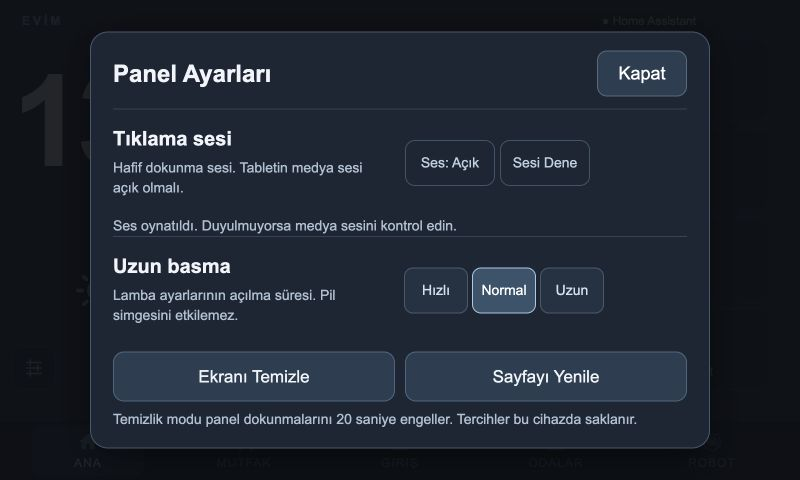
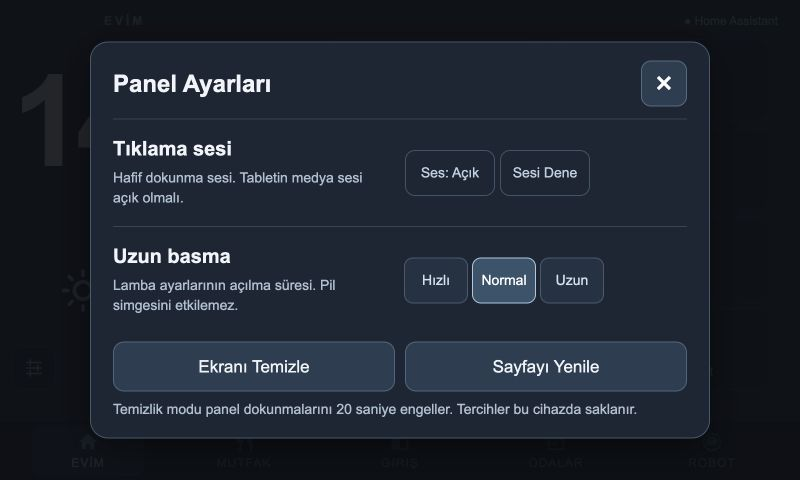
Finish live lamp controls, shared instant feedback, cached menus, and default color profiles

diff --git a/examples/panel-v2/panel.js b/examples/panel-v2/panel.js
@@ -8,20 +8,38 @@
     var snapshotNeeded = false, connectionGeneration = 0, renderQueued=false,lastConnection=null;
     function activeView(){try{return decodeURIComponent(window.location.hash.replace(/^#screen-/,''))||'Ana';}catch(ignore){return 'Ana';}}
     function scheduleRender(){if(renderQueued){return;}renderQueued=true;setTimeout(function(){renderQueued=false;render();},16);}
-    var modalIds = [], focusBeforeDialog = null, noticeTimer, modal, keyboardInput = false;
+    var modalIds = [], modalControls=[],dialogCache={},modalRevision=0,focusBeforeDialog = null, noticeTimer, modal, keyboardInput = false;
     document.addEventListener('keydown',function(ev){if(ev.keyCode===9){keyboardInput=true;document.body.classList.add('pv2-keyboard');}},true);
     function pointerInput(){keyboardInput=false;document.body.classList.remove('pv2-keyboard');}
     document.addEventListener('touchstart',pointerInput,true);
     document.addEventListener('mousedown',pointerInput,true);
-    var soundEnabled=true,holdDelay=650,audio=document.createElement('audio'),audioStatus=null;
+    var soundEnabled=true,holdDelay=500,audio=document.createElement('audio'),audioStatus=null;
     audio.preload='auto';audio.volume=1;audio.setAttribute('aria-hidden','true');audio.style.cssText='position:fixed;width:1px;height:1px;opacity:0;pointer-events:none';
     var soundBase=window.location.protocol+'//'+window.location.hostname+':8123/local/';
     [{src:cfg.clickSoundUrl||soundBase+'panel-click.mp3',type:'audio/mpeg'},{src:cfg.clickSoundWavUrl||soundBase+'panel-click.wav',type:'audio/wav'}].forEach(function(source){var n=document.createElement('source');n.src=source.src;n.type=source.type;audio.appendChild(n);});document.body.appendChild(audio);
     function soundStatus(text){if(audioStatus){setText(audioStatus,text);}}
     audio.addEventListener('playing',function(){soundStatus('Ses oynatıldı. Duyulmuyorsa medya sesini kontrol edin.');},false);
     audio.addEventListener('error',function(){soundStatus('Ses dosyası oynatılamadı. Hata: '+(audio.error?audio.error.code:'bilinmiyor'));},false);
-    try{var savedSound=localStorage.getItem('panel-v2-click-sound');if(savedSound==='on'||savedSound==='off'){soundEnabled=savedSound==='on';}var savedDelay=Number(localStorage.getItem('panel-v2-hold-ms'));if([450,650,900].indexOf(savedDelay)!==-1){holdDelay=savedDelay;}}catch(ignore){}
-    function clickSound(force){if(!soundEnabled&&!force){return;}try{try{audio.currentTime=0;}catch(ignore){}var playing=audio.play();if(playing&&playing.catch){playing.catch(function(error){soundStatus(error.name==='NotAllowedError'?'Tarayıcı ses oynatmayı engelledi. Sesi Dene düğmesine dokunun.':'Ses oynatılamadı: '+error.name);});}}catch(ignore){soundStatus('Bu tarayıcı sesi başlatamadı.');}}
+    try{var savedSound=localStorage.getItem('panel-v2-click-sound');if(savedSound==='on'||savedSound==='off'){soundEnabled=savedSound==='on';}var savedDelay=Number(localStorage.getItem('panel-v2-hold-ms'));if(savedDelay===450){savedDelay=250;}else if(savedDelay===650){savedDelay=500;}else if(savedDelay===900){savedDelay=800;}if([250,500,800].indexOf(savedDelay)!==-1){holdDelay=savedDelay;}}catch(ignore){}
+    // Decode once; a new lightweight buffer source starts directly on touch-down.
+    // The proven HTML media path remains a fallback for older/unsupported engines.
+    var fastContext=null,fastBuffer=null,fastFailed=false;
[1 lines of base64/hex data omitted]
+    function fastSound(){
+      if(!fastContext||!fastBuffer||fastFailed){return false;}
+      try{if(fastContext.state==='suspended'&&fastContext.resume){var resuming=fastContext.resume();if(resuming&&resuming.catch){resuming.catch(function(){fastFailed=true;});}}
+        var source=fastContext.createBufferSource();source.buffer=fastBuffer;source.connect(fastContext.destination);source.onended=function(){source.disconnect();};if(source.start){source.start(0);}else{source.noteOn(0);}soundStatus('Ses oynatıldı · Hızlı ses');return true;
+      }catch(ignore){fastFailed=true;return false;}
+    }
+    function clickSound(force){if(!soundEnabled&&!force){return;}if(fastSound()){return;}try{try{audio.currentTime=0;}catch(ignore){}var playing=audio.play();if(playing&&playing.catch){playing.catch(function(error){soundStatus(error.name==='NotAllowedError'?'Tarayıcı ses oynatmayı engelledi. Sesi Dene düğmesine dokunun.':'Ses oynatılamadı: '+error.name);});}}catch(ignore){soundStatus('Bu tarayıcı sesi başlatamadı.');}}
+    var lastTouchSoundAt=0,lastPointerSoundAt=0,lastPointerControl=null,touchFeedbackActive=false;
+    function feedbackControl(target){for(var el=target;el&&el!==document.body;el=el.parentNode){if(el.nodeType!==1){continue;}var tag=el.tagName;if(tag==='BUTTON'||tag==='SELECT'||tag==='INPUT'||tag==='A'||el.classList.contains('navbar-item')){return el.disabled||el.getAttribute('aria-disabled')==='true'?null:el;}}return null;}
+    function pressFeedback(ev){var now=new Date().getTime();if(ev.type==='mousedown'&&(ev.button!==0||now-lastTouchSoundAt<800)){return;}if(ev.touches&&ev.touches.length!==1){return;}var el=feedbackControl(ev.target);if(!el){return;}if(ev.touches){lastTouchSoundAt=now;touchFeedbackActive=true;}lastPointerSoundAt=now;lastPointerControl=el;clickSound(el.classList.contains('pv2-sound-test'));}
+    document.addEventListener('touchstart',pressFeedback,true);
+    document.addEventListener('mousedown',pressFeedback,true);
+    document.addEventListener('touchend',function(){if(touchFeedbackActive){lastTouchSoundAt=new Date().getTime();lastPointerSoundAt=lastTouchSoundAt;touchFeedbackActive=false;}},true);
+    document.addEventListener('mouseup',function(){lastPointerSoundAt=new Date().getTime();},true);
+    document.addEventListener('click',function(ev){if(ev.isTrusted===false){return;}var el=feedbackControl(ev.target);if(!el){return;}if(el===lastPointerControl&&new Date().getTime()-lastPointerSoundAt<1000){return;}clickSound(el.classList.contains('pv2-sound-test'));},true);
     var paths = {
       settings:'M4 6h16M4 12h16M4 18h16M8 3v6m8 0v6M8 15v6',
       bulb:'M9 18h6m-5 3h4M8 13a6 6 0 1 1 8 0c-1 1-1 2-1 3H9c0-1 0-2-1-3Z',
@@ -51,32 +69,39 @@
         request.then(function(result){clearTimeout(timeout);resolve(result);},function(error){clearTimeout(timeout);reject(error);});
       });
     }
-    function perform(key, domain, service, ids, data) {
+    function perform(key, domain, service, ids, data, onSuccess) {
       if (busy[key]) { return; }
       busy[key]=true; scheduleRender();
-      call(domain,service,ids,data).then(function(){busy[key]=false;scheduleRender();},function(){busy[key]=false;scheduleRender();notice('İşlem gerçekleştirilemedi. Bağlantıyı kontrol edin.');});
+      call(domain,service,ids,data).then(function(){busy[key]=false;scheduleRender();if(onSuccess){onSuccess();}},function(){busy[key]=false;scheduleRender();notice('İşlem gerçekleştirilemedi. Bağlantıyı kontrol edin.');});
     }
     function supported(ids) { return ids.filter(function(id){return C.available(get(id));}); }
     function toggle(ids) {
       var g=C.group(ids,cache), active=supported(ids);
       if (!active.length) { notice('Lambaya ulaşılamıyor.'); return; }
-      perform(ids.join(','),'light',g.service,active);
+      if(g.service==='turn_on'){turnOn(active,ids.join(','));}else{perform(ids.join(','),'light','turn_off',active);}
+    }
+    function turnOn(ids,key){
+      var targets=ids.map(function(id){return {id:id,data:C.defaultLightData(get(id),cfg.defaultLightStates&&cfg.defaultLightStates[id])};});
+      if(!targets.some(function(t){return !!t.data;})){perform(key,'light','turn_on',ids);return;}
+      if(busy[key]){return;}busy[key]=true;scheduleRender();
+      Promise.all(targets.map(function(t){return call('light','turn_on',t.id,t.data).then(function(){return true;},function(){return false;});})).then(function(results){busy[key]=false;scheduleRender();if(results.some(function(ok){return !ok;})){notice('Bazı lambalar açılamadı. Bağlantıyı kontrol edin.');}});
     }
     function addCard(parent, options, legacy) {
       var b=node('button','pv2-card'+(options.action?' pv2-action':'')+(legacy?' pv2-legacy-light':'')); b.type='button';
       b.innerHTML=icon(options.icon);
       var text=node('span','pv2-card-text'), label=node('span','pv2-card-label',options.label), state=node('span','pv2-card-state','Yükleniyor…');
       text.appendChild(label);text.appendChild(state);b.appendChild(text);parent.appendChild(b);
-      var item={button:b,label:label,status:state,options:options,view:parent.getAttribute('data-pv2-screen')};cards.push(item);
+      var item={button:b,label:label,status:state,options:options,icon:b.querySelector('svg'),view:parent.getAttribute('data-pv2-screen')};cards.push(item);
       C.bindPress(b,function(){
         if (b.disabled) { return; }
         if (options.kind==='robot') { var robot=C.robot(get(cfg.vacuum)); if(robot.service){perform('robot','vacuum',robot.service,cfg.vacuum);} }
         else if(options.kind==='alloff'){toggleCountdown();}
         else if(options.kind&&options.kind.indexOf('vacuum-')===0){var action=C.robotControl(get(cfg.vacuum),options.kind.slice(7));if(action.service){perform('vacuum','vacuum',action.service,cfg.vacuum);}}
         else{toggle(options.ids);}
-      },options.ids?function(){openDialog(options.label,options.ids);}:null,null,function(){return holdDelay;},function(){if(!b.disabled){clickSound();}});
+      },options.ids?function(){openDialog(options.label,options.ids);}:null,null,function(){return holdDelay;});
       return item;
     }
+    var navLabels=document.querySelectorAll('.navbar-label');for(var ni=0;ni<navLabels.length;ni++){if(navLabels[ni].textContent.trim().toLowerCase()==='ana'){setText(navLabels[ni],'EVİM');}}
     document.body.classList.add('panel-v2');
     var views=[],robotStatus=null;
     function makeView(name,title){
@@ -88,7 +113,7 @@
       var clock=node('div','pv2-clock'),date=node('div','pv2-date'),weekday=node('div','pv2-date');overview.appendChild(clock);overview.appendChild(date);overview.appendChild(weekday);
       var weather=node('div','pv2-weather'),weatherMain=node('div','pv2-weather-main'),weatherIcon=node('span'),temperature=node('span','pv2-temperature','--°'),condition=node('div','pv2-condition','Yükleniyor…');weatherMain.appendChild(weatherIcon);weatherMain.appendChild(temperature);weather.appendChild(weatherMain);weather.appendChild(condition);overview.appendChild(weather);
       var meeting=node('div','pv2-meeting');meeting.innerHTML='<span class="pv2-meeting-dot"></span>Toplantı';overview.appendChild(meeting);
-      var trigger=node('button','pv2-settings-trigger');trigger.type='button';trigger.innerHTML=icon('settings');trigger.setAttribute('aria-label','Panel Ayarları');trigger.title='Panel Ayarları';trigger.addEventListener('click',function(){clickSound();openPanelSettings();},false);overview.appendChild(trigger);
+      var trigger=node('button','pv2-settings-trigger');trigger.type='button';trigger.innerHTML=icon('settings');trigger.setAttribute('aria-label','Panel Ayarları');trigger.title='Panel Ayarları';trigger.addEventListener('click',function(){openPanelSettings();},false);overview.appendChild(trigger);
       body.appendChild(overview);body.appendChild(controls);root.appendChild(body);screen.appendChild(root);
       views.push({name:name,status:status,clock:clock,date:date,weekday:weekday,temperature:temperature,condition:condition,weatherIcon:weatherIcon,previousWeatherIcon:'',meeting:meeting});return controls;
     }
@@ -114,10 +139,10 @@
     }
     modal=node('div','pv2-modal');modal.setAttribute('role','dialog');modal.setAttribute('aria-modal','true');modal.setAttribute('aria-labelledby','pv2-dialog-title');
     var dialog=node('div','pv2-dialog'), header=node('div','pv2-dialog-header'), dialogTitle=node('h2');dialogTitle.id='pv2-dialog-title';
-    var close=node('button','pv2-close','Kapat');close.type='button';
+    var close=node('button','pv2-close','×');close.type='button';close.setAttribute('aria-label','Pencereyi kapat');close.title='Pencereyi kapat';
     var sound=node('button','pv2-sound');sound.type='button';
     function soundLabel(){setText(sound,'Ses: '+(soundEnabled?'Açık':'Kapalı'));sound.setAttribute('aria-pressed',soundEnabled?'true':'false');sound.title='Düğme tıklama sesi';}
-    soundLabel();sound.addEventListener('click',function(){soundEnabled=!soundEnabled;try{localStorage.setItem('panel-v2-click-sound',soundEnabled?'on':'off');}catch(ignore){}soundLabel();clickSound();},false);
+    soundLabel();sound.addEventListener('click',function(){soundEnabled=!soundEnabled;try{localStorage.setItem('panel-v2-click-sound',soundEnabled?'on':'off');}catch(ignore){}soundLabel();if(soundEnabled){clickSound(true);}},false);
     header.appendChild(dialogTitle);header.appendChild(close);dialog.appendChild(header);
     var settings=node('div');dialog.appendChild(settings);modal.appendChild(dialog);document.body.appendChild(modal);
     close.addEventListener('click',closeDialog,false);
@@ -130,22 +155,23 @@
     modal.addEventListener('touchstart',function(ev){ev.stopPropagation();},false);
     modal.addEventListener('touchmove',function(ev){ev.stopPropagation();},false);
     modal.addEventListener('touchend',function(ev){ev.stopPropagation();},false);
-    function closeDialog(){var wasOpen=modal.classList.contains('pv2-open');modal.classList.remove('pv2-open');modalIds=[];if(wasOpen&&focusBeforeDialog&&document.body.contains(focusBeforeDialog)){if(keyboardInput){focusBeforeDialog.focus();}else if(document.activeElement&&document.activeElement.blur){document.activeElement.blur();}}}
+    function closeDialog(){modalRevision++;var wasOpen=modal.classList.contains('pv2-open');modal.classList.remove('pv2-open');modalIds=[];modalControls=[];if(wasOpen&&focusBeforeDialog&&document.body.contains(focusBeforeDialog)){if(keyboardInput){focusBeforeDialog.focus();}else if(document.activeElement&&document.activeElement.blur){document.activeElement.blur();}}}
     function openDialog(title, ids){
-      focusBeforeDialog=document.activeElement;modalIds=ids.slice(0);setText(dialogTitle,title);settings.innerHTML='';
-      for(var di=0;di<ids.length;di++){buildSettings(ids[di],ids.length>1);}
-      modal.classList.add('pv2-open');close.focus();
+      modalRevision++;focusBeforeDialog=document.activeElement;modalIds=ids.slice(0);setText(dialogTitle,title);settings.innerHTML='';
+      var key=ids.join('|'),signature='';for(var si=0;si<ids.length;si++){var state=get(ids[si]);signature+=String(C.available(state))+JSON.stringify(C.capabilities(state));}
+      var page=dialogCache[key];if(!page||page.signature!==signature){page={content:node('div'),controls:[],signature:signature};modalControls=[];for(var di=0;di<ids.length;di++){buildSettings(ids[di],ids.length>1,page.content);}page.controls=modalControls;dialogCache[key]=page;}else{modalControls=page.controls;}
+      for(var ci=0;ci<modalControls.length;ci++){modalControls[ci].editing=false;}settings.appendChild(page.content);syncDialog();modal.classList.add('pv2-open');close.focus();
     }
     function openPanelSettings(){
-      focusBeforeDialog=document.activeElement;modalIds=[];setText(dialogTitle,'Panel Ayarları');settings.innerHTML='';
+      modalRevision++;focusBeforeDialog=document.activeElement;modalIds=[];modalControls=[];setText(dialogTitle,'Panel Ayarları');settings.innerHTML='';
       function preference(title,hint,control){var row=node('div','pv2-preference'),description=node('div');description.appendChild(node('h3','',title));description.appendChild(node('p','pv2-dialog-hint',hint));row.appendChild(description);row.appendChild(control);settings.appendChild(row);}
-      var audioActions=node('div','pv2-audio-actions'),testAudio=node('button','pv2-sound','Sesi Dene');testAudio.type='button';testAudio.addEventListener('click',function(){soundStatus('Ses deneniyor…');clickSound(true);},false);audioActions.appendChild(sound);audioActions.appendChild(testAudio);preference('Tıklama sesi','Hafif dokunma sesi. Tabletin medya sesi açık olmalı.',audioActions);audioStatus=node('p','pv2-dialog-hint');audioStatus.setAttribute('role','status');settings.appendChild(audioStatus);
+      var audioActions=node('div','pv2-audio-actions'),testAudio=node('button','pv2-sound pv2-sound-test','Sesi Dene');testAudio.type='button';audioActions.appendChild(sound);audioActions.appendChild(testAudio);preference('Tıklama sesi','Hafif dokunma sesi. Tabletin medya sesi açık olmalı.',audioActions);audioStatus=node('p','pv2-dialog-hint');audioStatus.setAttribute('role','status');settings.appendChild(audioStatus);
       var delays=node('div','pv2-delay-options');
-      [{label:'Hızlı',ms:450},{label:'Normal',ms:650},{label:'Uzun',ms:900}].forEach(function(p){var b=node('button','pv2-delay',p.label);b.type='button';b.setAttribute('aria-pressed',holdDelay===p.ms?'true':'false');b.addEventListener('click',function(){holdDelay=p.ms;try{localStorage.setItem('panel-v2-hold-ms',String(holdDelay));}catch(ignore){}var all=delays.querySelectorAll('button');for(var i=0;i<all.length;i++){all[i].setAttribute('aria-pressed',all[i]===b?'true':'false');}clickSound();},false);delays.appendChild(b);});
+      [{label:'Hızlı',ms:250},{label:'Normal',ms:500},{label:'Uzun',ms:800}].forEach(function(p){var b=node('button','pv2-delay',p.label);b.type='button';b.setAttribute('aria-pressed',holdDelay===p.ms?'true':'false');b.addEventListener('click',function(){holdDelay=p.ms;try{localStorage.setItem('panel-v2-hold-ms',String(holdDelay));}catch(ignore){}var all=delays.querySelectorAll('button');for(var i=0;i<all.length;i++){all[i].setAttribute('aria-pressed',all[i]===b?'true':'false');}},false);delays.appendChild(b);});
       preference('Uzun basma','Lamba ayarlarının açılma süresi. Pil simgesini etkilemez.',delays);
       var actions=node('div','pv2-settings-actions'),clean=node('button','','Ekranı Temizle'),reload=node('button','','Sayfayı Yenile');clean.type=reload.type='button';
-      clean.addEventListener('click',function(){clickSound();closeDialog();cleanScreen();},false);
-      reload.addEventListener('click',function(){clickSound();window.location.reload();},false);
+      clean.addEventListener('click',function(){closeDialog();cleanScreen();},false);
+      reload.addEventListener('click',function(){window.location.reload();},false);
       actions.appendChild(clean);actions.appendChild(reload);settings.appendChild(actions);settings.appendChild(node('p','pv2-dialog-hint','Temizlik modu panel dokunmalarını 20 saniye engeller. Tercihler bu cihazda saklanır.'));
       modal.classList.add('pv2-open');close.focus();
     }
@@ -157,37 +183,49 @@
       function tick(){var left=Math.max(0,Math.ceil((deadline-new Date().getTime())/1000));setText(remaining,String(left));if(left===0){clearInterval(timer);if(cover.parentNode){cover.parentNode.removeChild(cover);}}}
       timer=setInterval(tick,250);tick();
     }
-    function buildSettings(id, showName){
+    function buildSettings(id, showName, container){
       var entry=get(id), a=entry.attributes, cap=C.capabilities(entry), section=node('section','pv2-light-settings');
       if(showName){section.appendChild(node('h3','',cfg.labels && cfg.labels[id] || a.friendly_name || 'Lamba'));}
-      if(!C.available(entry)){section.appendChild(node('p','pv2-dialog-hint','Bu lambaya şu anda ulaşılamıyor.'));settings.appendChild(section);return;}
+      if(!C.available(entry)){section.appendChild(node('p','pv2-dialog-hint','Bu lambaya şu anda ulaşılamıyor.'));container.appendChild(section);return;}
+      var control={id:id,input:null,output:null,presets:[],editing:false};modalControls.push(control);
       if(cap.dim){
         var row=node('div','pv2-setting-row'),label=node('label','','Parlaklık'),input=node('input'),output=node('output');
         var brightness=C.brightness(entry);input.type='range';input.min='0';input.max='100';input.step='1';input.value=String(brightness.value);input.setAttribute('aria-label',(cfg.labels&&cfg.labels[id]||'Lamba')+' parlaklık');
         input.id='pv2-dim-'+id.replace(/\./g,'-');label.htmlFor=input.id;output.textContent=brightness.label;
+        control.input=input;control.output=output;
+        input.addEventListener('mousedown',function(){control.editing=true;},false);input.addEventListener('touchstart',function(){control.editing=true;},false);
+        input.addEventListener('touchcancel',function(){control.editing=false;syncDialog();},false);
+        input.addEventListener('mouseup',function(){control.editing=false;},false);input.addEventListener('touchend',function(){control.editing=false;},false);
         input.addEventListener('input',function(){setText(output,input.value+'%');},false);
-        input.addEventListener('change',function(){clickSound();var value=Number(input.value);if(value===0){perform('dim:'+id,'light','turn_off',id);}else{perform('dim:'+id,'light','turn_on',id,{brightness_pct:value});}},false);
+        input.addEventListener('change',function(){control.editing=false;var value=Number(input.value);if(value===0){perform('dim:'+id,'light','turn_off',id);}else{perform('dim:'+id,'light','turn_on',id,{brightness_pct:value});}},false);
         row.appendChild(label);row.appendChild(input);row.appendChild(output);section.appendChild(row);
       }
       if(cap.temperature){
         var temps=node('div','pv2-presets');section.appendChild(node('h3','pv2-presets-title','Beyaz tonları'));
         [{label:'Sıcak',k:2700,color:'#ffd18b'},{label:'Doğal',k:4000,color:'#fff0d9'},{label:'Soğuk',k:6500,color:'#dcecff'}].forEach(function(p){
           var k=Math.max(cap.min,Math.min(cap.max,p.k));
-          var b=preset(p.label,p.color);b.setAttribute('aria-label',p.label+' beyaz');
-          b.addEventListener('click',function(){selectPreset(temps,b);perform('color:'+id,'light','turn_on',id,{color_temp_kelvin:k});},false);temps.appendChild(b);
+          var b=preset(p.label,p.color);b.setAttribute('aria-label',p.label+' beyaz');control.presets.push({button:b,kelvin:k});
+          b.addEventListener('click',function(){selectPreset(temps,b);applyPreset(id,{color_temp_kelvin:k});},false);temps.appendChild(b);
         });section.appendChild(temps);
       }
       if(cap.rgb){
         var colors=node('div','pv2-presets');section.appendChild(node('h3','pv2-presets-title','Renkler'));
         [{label:'Kırmızı',rgb:[255,55,55],color:'#ff5555'},{label:'Amber',rgb:[255,165,45],color:'#ffb64d'},{label:'Yeşil',rgb:[65,220,110],color:'#51d984'},{label:'Mavi',rgb:[65,135,255],color:'#679dff'},{label:'Mor',rgb:[175,85,255],color:'#b278fa'},{label:'Pembe',rgb:[255,95,170],color:'#ff7db4'}].forEach(function(p){
-          var b=preset(p.label,p.color);b.addEventListener('click',function(){selectPreset(colors,b);perform('color:'+id,'light','turn_on',id,{rgb_color:p.rgb});},false);colors.appendChild(b);
+          var b=preset(p.label,p.color);control.presets.push({button:b,rgb:p.rgb});b.addEventListener('click',function(){selectPreset(colors,b);applyPreset(id,{rgb_color:p.rgb});},false);colors.appendChild(b);
         });section.appendChild(colors);
       }
       if(!cap.dim&&!cap.temperature&&!cap.rgb){section.appendChild(node('p','pv2-dialog-hint','Bu lamba yalnızca aç/kapat destekliyor.'));}
-      settings.appendChild(section);
+      container.appendChild(section);
+    }
+    function applyPreset(id,data){var revision=modalRevision;perform('color:'+id,'light','turn_on',id,data,function(){if(modalRevision===revision){closeDialog();}});}
+    function syncDialog(){
+      for(var mi=0;mi<modalControls.length;mi++){var control=modalControls[mi],entry=get(control.id),available=connection()&&C.available(entry);
+        if(control.input){control.input.disabled=!available;if(!control.editing&&!busy['dim:'+control.id]){var brightness=C.brightness(entry);control.input.value=String(brightness.value);setText(control.output,brightness.label);}}
+        for(var pi=0;pi<control.presets.length;pi++){var p=control.presets[pi],selected=C.presetSelected(entry,p);p.button.disabled=!available||!!busy['color:'+control.id];if(!busy['color:'+control.id]){p.button.classList.toggle('pv2-selected',selected);p.button.setAttribute('aria-pressed',selected?'true':'false');}}
+      }
     }
     function preset(label,color){var b=node('button','pv2-preset');b.type='button';b.setAttribute('aria-pressed','false');var dot=node('span','pv2-swatch');dot.style.backgroundColor=color;b.appendChild(dot);b.appendChild(document.createTextNode(label));return b;}
-    function selectPreset(parent,button){clickSound();var all=parent.parentNode.querySelectorAll('.pv2-preset');for(var i=0;i<all.length;i++){all[i].classList.remove('pv2-selected');all[i].setAttribute('aria-pressed','false');}button.classList.add('pv2-selected');button.setAttribute('aria-pressed','true');}
+    function selectPreset(parent,button){var all=parent.parentNode.querySelectorAll('.pv2-preset');for(var i=0;i<all.length;i++){all[i].classList.remove('pv2-selected');all[i].setAttribute('aria-pressed','false');}button.classList.add('pv2-selected');button.setAttribute('aria-pressed','true');}
     function drawCard(item){
       var o=item.options,b=item.button,label=o.label,detail='',on=false,unavailable=false,key=o.ids?o.ids.join(','):o.kind,disabled=!connection();
       if(o.kind&&o.kind.indexOf('vacuum-')===0){var action=C.robotControl(get(cfg.vacuum),o.kind.slice(7));label=action.label;detail=action.detail;disabled=disabled||!action.service||!!busy.robot;unavailable=!C.available(get(cfg.vacuum));key='vacuum';}
@@ -205,6 +243,8 @@
         else{detail=group.on?group.on+'/'+group.total+' açık':'Kapalı';if(group.ready<group.total){detail+=' · eksik bağlantı';}}
         disabled=disabled||unavailable;
       }
+      var tint=o.ids&&o.ids.length===1?C.lightTint(get(o.ids[0])):null;
+      b.style.backgroundColor=tint?tint.background:'';b.style.borderColor=tint?tint.border:'';if(item.icon){item.icon.style.color=tint?tint.foreground:'';}item.status.style.color=tint?tint.foreground:'';
       b.disabled=disabled||!!busy[key];b.classList.toggle('pv2-on',on);b.classList.toggle('pv2-unavailable',unavailable);
       b.classList.toggle('pv2-pending',!!busy[key]);b.setAttribute('aria-busy',busy[key]?'true':'false');
       setText(item.label,label);setText(item.status,!connection()?'Bağlantı yok':detail);
@@ -213,7 +253,7 @@
     var conditions={'clear-night':'Açık gece','cloudy':'Bulutlu','exceptional':'Olağan dışı','fog':'Sisli','hail':'Dolu','lightning':'Şimşekli','lightning-rainy':'Gök gürültülü','partlycloudy':'Parçalı bulutlu','pouring':'Sağanak','rainy':'Yağmurlu','snowy':'Karlı','snowy-rainy':'Karla karışık','sunny':'Güneşli','windy':'Rüzgârlı','windy-variant':'Rüzgârlı'};
     function updateMeeting(v){var entry=get(cfg.meeting),age=new Date().getTime()/1000-Number(entry.attributes.last_report_epoch||0);v.meeting.classList.toggle('pv2-active',v.name==='Ana'&&connection()&&entry.state==='on'&&age>=-5&&age<40);}
     function render(){
-      var active=activeView();
+      syncDialog();var active=activeView();
       for(var i=0;i<cards.length;i++){if(cards[i].view===active){drawCard(cards[i]);}}
       var entry=get(cfg.weather),t=entry.attributes.temperature,valid=C.available(entry)&&t!==null&&t!==undefined&&t!==''&&isFinite(Number(t));
       var weatherName=entry.state==='sunny'?'sun':entry.state==='clear-night'?'moon':(/rain|pouring|hail|snow/.test(entry.state)?'rain':'cloud');

diff --git a/examples/panel-v2/core.js b/examples/panel-v2/core.js
@@ -30,6 +30,24 @@
     var value=Math.max(0,Math.min(100,Math.round(Number(b)/255*100)));
     return {value:value,label:value+'%'};
   };
+  api.lightTint = function(e){
+    var a=e.attributes||{},rgb=a.rgb_color;
+    if(e.state!=='on'||a.color_mode==='color_temp'||!rgb||rgb.length!==3){return null;}
+    for(var i=0;i<3;i++){if(rgb[i]===null||!isFinite(Number(rgb[i]))||Number(rgb[i])<0||Number(rgb[i])>255){return null;}}
+    function mix(base,ratio){var v=[];for(var j=0;j<3;j++){v.push(Math.round(base[j]*(1-ratio)+Number(rgb[j])*ratio));}return 'rgb('+v.join(',')+')';}
+    return {background:mix([37,47,62],0.22),border:mix([60,72,90],0.55),foreground:mix([255,255,255],0.7)};
+  };
+  api.presetSelected = function(e,p){
+    if(e.state!=='on'){return false;}var a=e.attributes||{};
+    if(p.kelvin){if(a.color_mode&&a.color_mode!=='color_temp'){return false;}var k=a.color_temp_kelvin||(a.color_temp?1000000/a.color_temp:null);return k!==null&&Math.abs(k-p.kelvin)<=150;}
+    if(a.color_mode==='color_temp'||!a.rgb_color){return false;}var distance=0;for(var i=0;i<3;i++){if(!isFinite(a.rgb_color[i])){return false;}distance+=Math.pow(a.rgb_color[i]-p.rgb[i],2);}return distance<=3600;
+  };
+  api.defaultLightData = function(e,profile){
+    if(!profile){return null;}var cap=api.capabilities(e);
+    if(cap.temperature&&isFinite(Number(profile.color_temp_kelvin))&&Number(profile.color_temp_kelvin)>0){return {color_temp_kelvin:Math.round(Math.max(cap.min,Math.min(cap.max,Number(profile.color_temp_kelvin))))};}
+    if(cap.rgb&&profile.rgb_color&&profile.rgb_color.length===3){var rgb=[];for(var i=0;i<3;i++){var value=profile.rgb_color[i];if(value===null||!isFinite(Number(value))){return null;}rgb.push(Math.round(Math.max(0,Math.min(255,Number(value)))));}return {rgb_color:rgb};}
+    return null;
+  };
   api.robot = function (e) {
     if (!api.available(e)) { return {label: 'Robot', detail: 'Bağlantı yok', service: null}; }
     if (e.state === 'cleaning' || e.state === 'paused') { return {label: 'Temizliği Durdur', detail: 'İstasyona gönder', service: 'return_to_base'}; }
@@ -70,7 +88,7 @@
     el.addEventListener('mousedown', start, false);
     el.addEventListener('touchstart', start, false);
     el.addEventListener('touchmove', function (ev) { var p = ev.touches[0]; if (!p || Math.abs(p.clientX - startX) > 12 || Math.abs(p.clientY - startY) > 12) { cancel(); held = true; } }, false);
-    el.addEventListener('touchend', function(ev){cancel();touchAt=scheduler.now();suppressClickUntil=touchAt+800;ev.preventDefault();var act=started&&!held;started=false;held=false;if(act){shortPress();}},false);
+    el.addEventListener('touchend', function(ev){cancel();if(!started&&!held){return;}touchAt=scheduler.now();suppressClickUntil=touchAt+800;ev.preventDefault();var act=started&&!held;started=false;held=false;if(act){shortPress();}},false);
     el.addEventListener('touchcancel', function () { cancel();touchAt=scheduler.now();suppressClickUntil=touchAt+800;held=false;started=false; }, false);
     el.addEventListener('mouseup', cancel, false);
     el.addEventListener('mouseleave', cancel, false);

diff --git a/examples/panel-v2/panel.css b/examples/panel-v2/panel.css
@@ -50,7 +50,7 @@ body.panel-v2 { background:#171d27; color:#f2f4f8; font-family:Arial,sans-serif;
 .pv2-dialog { width:620px; max-width:94vw; max-height:94vh; padding:18px 22px; border:1px solid #536278; border-radius:18px; background:#202b3a; box-shadow:0 12px 36px rgba(0,0,0,.4); overflow-y:auto; }
 .pv2-dialog-header { display:-webkit-flex; display:flex; -webkit-align-items:center; align-items:center; -webkit-justify-content:space-between; justify-content:space-between; margin-bottom:12px; }
 .pv2-dialog h2 { font:700 24px Arial,sans-serif; margin:0; }
-.pv2-close { min-width:90px; min-height:46px; padding:8px 14px; border:1px solid #64758b; border-radius:10px; background:#34465c; color:white; font:18px Arial,sans-serif; }
+.pv2-close { width:46px; min-width:46px; min-height:46px; padding:0; border:1px solid #64758b; border-radius:10px; background:#34465c; color:white; font:32px Arial,sans-serif; }
 .pv2-light-settings { border-top:1px solid #3e4d61; margin-top:9px; padding-top:10px; }
 .pv2-light-settings h3 { margin:0 0 6px; font-size:17px; color:#cbd7e5; }
 .pv2-setting-row { display:-webkit-flex; display:flex; -webkit-flex-wrap:wrap; flex-wrap:wrap; -webkit-align-items:center; align-items:center; -webkit-justify-content:space-between; justify-content:space-between; margin:4px 0 12px; }
@@ -132,3 +132,6 @@ body.panel-v2 { background:#171d27; color:#f2f4f8; font-family:Arial,sans-serif;
 .pv2-card:disabled:not(.pv2-pending) { opacity:.6; }
 
 .pv2-card,.pv2-preset,.pv2-settings-trigger { touch-action:manipulation; }
+
+.pv2-card:active { box-shadow:inset 0 0 0 2px #a9c9de; }
+.pv2-preset:disabled { opacity:.5; }

diff --git a/docs/panel-v2.md b/docs/panel-v2.md
@@ -42,7 +42,7 @@ inside the 22 px panel gutter, keeping every tab title clear of this native laye
 
 Their behaviors are:
 
-- Living room and dining table: tap to toggle; hold 650 ms for settings.
+- Living room and dining table: tap to toggle; hold the configured delay for settings (normal: 500 ms).
 - Corridor: group the front corridor, rear corridor, and entrance lights. If any
   is on, turn all three off; otherwise turn all three on. Hold for individual settings.
 - Bedroom and office: tap to toggle; hold for settings.
@@ -57,22 +57,41 @@ The settings dialog only offers the capabilities the entity supports: brightness
 three white-temperature presets within the device limits, and six large circular RGB presets.
 The brightness control has a large thumb and percentage readout. Off lamps open
 at 0% even if HA retains an old brightness attribute; missing brightness on an on
-lamp is shown as unknown rather than 100%. Opening the dialog sends no command.
+lamp is shown as unknown rather than 100%. Opening the dialog sends no command. Its brightness and selected color follow live
+HA state without replacing a slider while it is being dragged. Single RGB lamp
+cards use a dark tint derived from their actual reported color; off/group cards
+retain their standard appearance. A preset closes the dialog after a successful HA service response; a failure
+keeps it open with a notice. Sliders keep the dialog open. Menu DOM is cached per lamp/group and capability
+set, so repeated opens reuse controls while refreshing current values.
 Moving the slider to zero turns the lamp off; a positive value turns it on at the
-chosen level. Ordinary on/off taps still let HA restore its previous brightness. An optional
+chosen level. Ordinary on/off taps preserve HA’s previous brightness. Optional `defaultLightStates`
+profiles supply each lamp’s normal color on the next **panel** turn-on, in the same
+command that lights it. A normal warm-white profile stays warm; no universal cold
+white is imposed. Off commands do not briefly turn lamps on to reset color.
+Calibrate profiles from actual normal/power-on states: Kelvin for color-temperature
+lamps, RGB for RGB-only lamps. Off-state null attributes are not usable calibration.
+Example values are illustrative; replace them with your own observed defaults.
+Other HA controls/automations are not intercepted by this frontend setting. An optional
 **Ses: Kapalı / Açık** preference in **Panel Ayarları** enables a quiet
 click. Open these separate panel settings using the settings icon below the clock/date
 at the lower left; sound controls are not part of individual lamp dialogs. The
 preference is saved in this browser only and defaults on unless explicitly disabled.
-Small MP3/PCM WAV files are served by HA’s public `/local/` static route
+For low-latency feedback, a tiny PCM sample is decoded into a Web Audio buffer
+once and started on touch-down. Unsupported/failed Web Audio engines retain the
+working HTML audio fallback: MP3/PCM WAV files served by HA’s public `/local/` static route
 for old WebView compatibility; no Internet audio request or microphone
 permission is needed. **Sesi Dene** plays a test and reports playback/load errors. The device media volume
-must be audible. Audio failures do not block controls. Light/control card feedback
-starts on touch/mouse down, before the touch-release service command. Valid short touches act at touchend
+must be audible. Audio failures do not block controls. Feedback on interactive controls, presets, close icons, sliders, and navigation
+starts on touch/mouse down, before the touch-release/click command. A shared capture listener excludes disabled
+controls and blank areas, suppresses synthetic mouse/click duplicates, and retains
+keyboard feedback. Valid short touches act at touchend
 without waiting for legacy click synthesis; follow-up mouse/click events are
-suppressed to avoid double commands. Long presses
-do not replay it when opening settings. Drag cancellation still prevents commands.
-Panel settings also offer 450/650/900 ms lamp long-press timing (normal: 650 ms),
+suppressed to avoid double commands. An unpaired touchend does not swallow the
+browser click fallback, preserving input recovery when a start event is missing. Long presses
+do not replay it when opening settings. The dialog closes with an × icon labeled
+"Pencereyi kapat" for accessibility, distinct from turning a lamp off. Drag cancellation still prevents commands.
+Panel settings also offer 250/500/800 ms lamp long-press timing (normal: 500 ms; older preferences migrate
+by their Fast/Normal/Long choice),
 a 20-second panel touch lock for cleaning, and a page reload button. The cleaning
 lock does not disable native Android controls or the native battery overlay.
 Neither preference changes the battery badge long press or native display helpers.
@@ -82,7 +101,7 @@ Sliders send a command on release/change, not on every movement. There are no
 chevrons under light buttons; long presses do not also toggle. A dragged/canceled
 touch does not act. The five tabs now use a shared layout:
 
-- **Ana:** the eight quick controls above.
+- **Evim** (internal `Ana` route): the eight quick controls above.
 - **Mutfak:** counter, sink, and dining table, with no unrelated nearby-room section.
 - **Giriş:** entrance and the two corridor lights only.
 - **Odalar:** living room, office, bedroom, and a named accent light.
@@ -164,6 +183,18 @@ then clears its countdown. This is a short exit delay, not a persistent schedule
 Cancellation cannot undo a turn-off service already dispatched at expiry.
 
 ## Tests
+
+For the DOM interaction regression (no physical HA/device commands), install the
+optional test dependency and run:
+
+```sh
+npm install --prefix /tmp/denver-panel-ui-tests --no-save jsdom@26.1.0
+NODE_PATH=/tmp/denver-panel-ui-tests/node_modules node tests/panel-ui.test.cjs
+```
+
+This checks live modal brightness/color, drag protection, cached menu reuse,
+250 ms Fast timing/migration, shared feedback, automatic close only after successful
+presets, failure notices, Home display naming, and tab activation from cached state.
 
 Run `node tests/panel-v2.test.cjs` for compact state merging, device capabilities,
 group behavior, robot state transitions, countdown timing, and touch/long-press

diff --git a/README.md b/README.md
@@ -42,6 +42,9 @@ with cancellation on its Home button. Kitchen toggles only counter/sink lights;
 large circular color presets and an optional quiet click improve touch controls.
 A common clock/weather column appears on Home, Kitchen, Entrance, Rooms, and Robot;
 a lower-left settings icon opens sound, hold timing, cleaning lock, and reload.
+Live brightness/color stays synchronized in reused dialogs; presets close after a
+successful command. Configurable per-lamp default color profiles restore each
+lamp’s own normal tone on the next panel turn-on, preserving brightness.
 The guide includes current V2 browser captures and optional tab removal. Native
 battery long press and display helpers remain unchanged.
 
